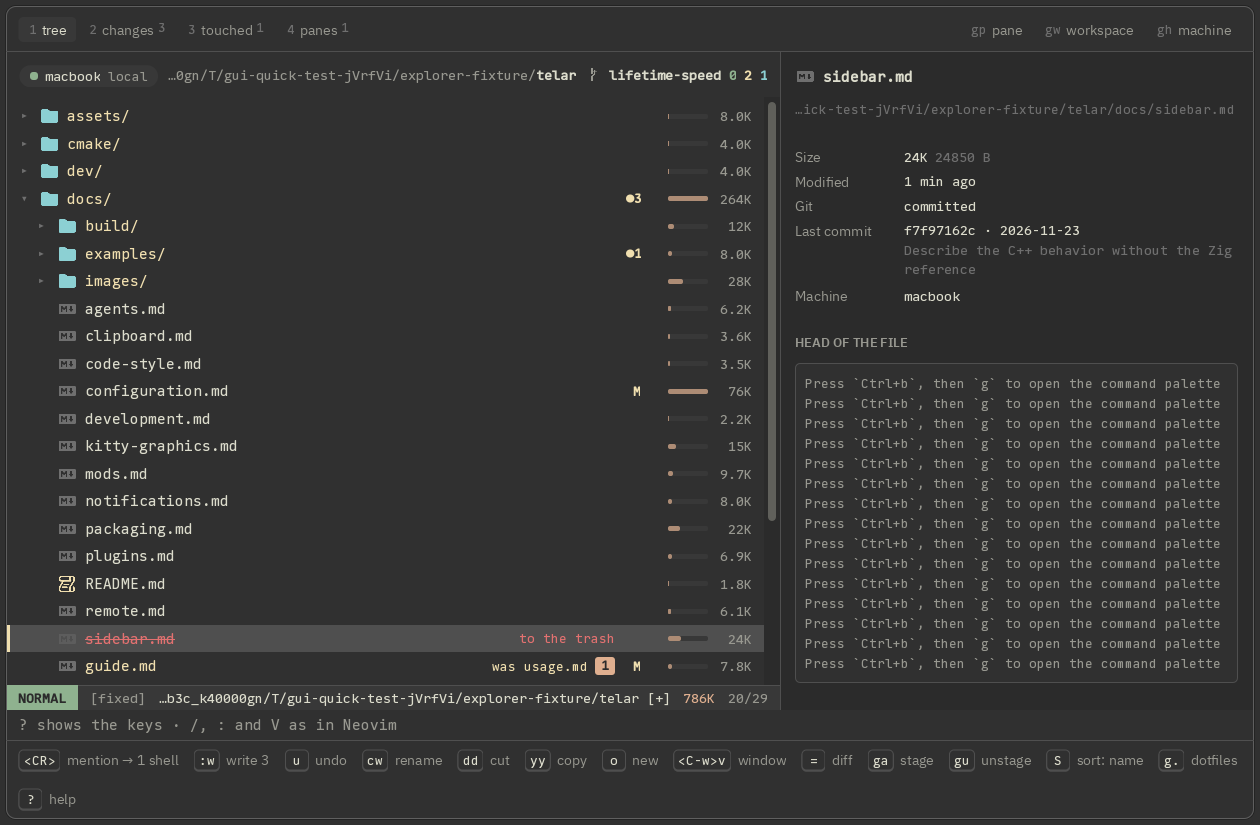
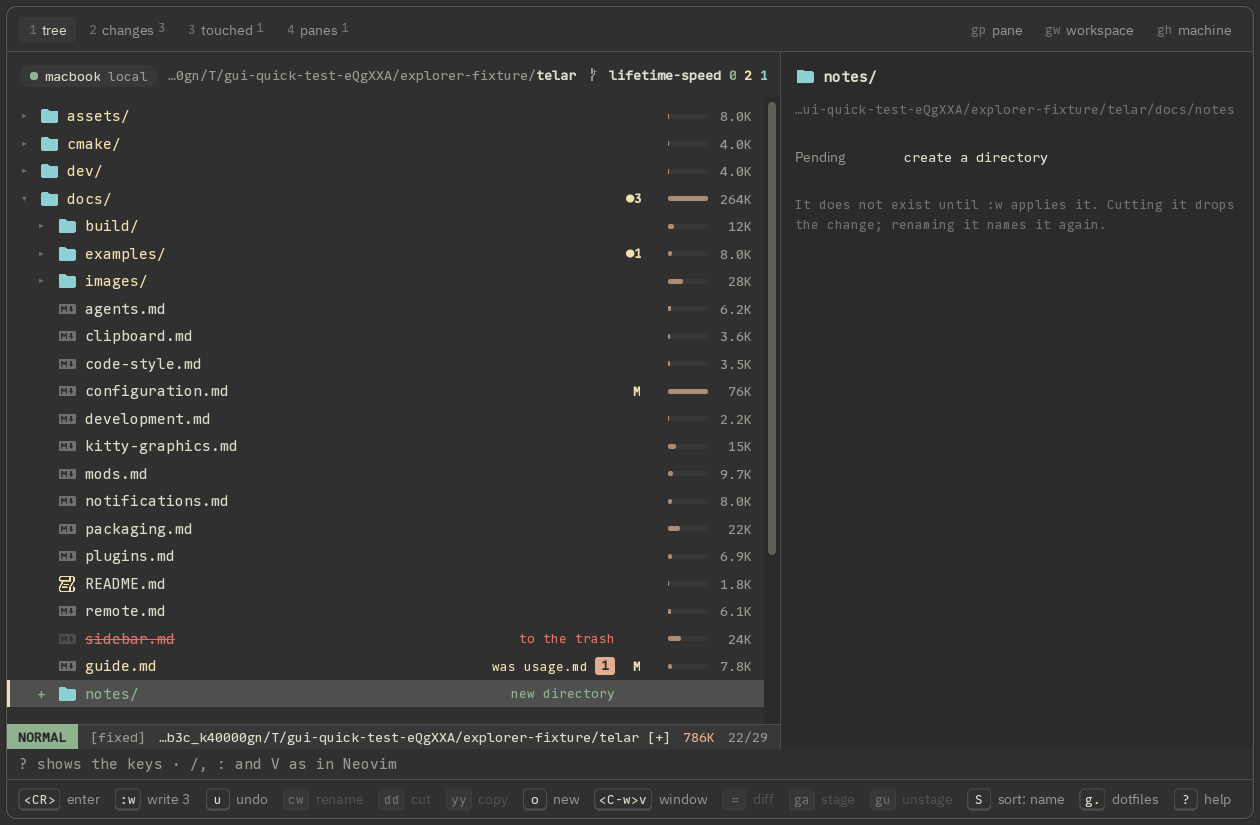
Describe the keys the explorer took from the design's prototype
The guide says what each does where it lists the keys of its kind, the
configuration's page names the commands a key can now be bound to, and the
pictures that changed are taken again: an entry not written yet keeps the
selection and has a preview, a directory lists seven of its heaviest and how
many of its entries show, and a file git does not track is marked `??`.

diff --git a/docs/explorer.md b/docs/explorer.md
@@ -19,21 +19,31 @@ until `:w` shows the plan and you accept it. `?` lists every key.
 
 | Keys | What they do |
 | --- | --- |
-| `j` `k`, `gg` `G`, `Ctrl+d` `Ctrl+u` | Move by a row, to the first or the last, by half a page. A count applies: `5j`, `12G`. |
+| `j` `k`, `gg` `G`, `Ctrl+d` `Ctrl+u` | Move by a row, to the first or the last, by half a page. A count applies: `5j`, `12G`. `Ctrl+n` and `Ctrl+p` move as `j` and `k`, and `:12` goes to a row as `12G`. |
 | `h` `l` | Fold and unfold a directory. `h` on a file goes to its directory; `l` on an unfolded directory moves into it. |
-| `za` `zM` `zR` | Toggle a fold, fold every directory, unfold the directories that show. |
+| `za` `zo` `zc` | Toggle a fold, unfold, fold. `zc` on what is in a directory folds that directory, and selects it. |
+| `zM` `zR` | Fold every directory; unfold every one, each as its listing arrives. `zR` stops when a window has 64 directories unfolded. |
 | `Enter` | On a directory, make it the root of the window. |
-| `-` `_` `~` | Go to the directory above, to the workspace's, to the home. |
+| `-` `_` `~` | Go to the directory above, to the workspace's, to the home. Backspace goes up as `-` does. |
 | `Ctrl+o` `Ctrl+i` | Go back and forward through the roots visited. |
-| `ma` `'a` | Set a mark on the selection, and return to it. `:marks` lists them. |
-| `/` | Filter as you type; Enter keeps the filter, Escape drops it. `n` and `N` go to the next and the previous match, around the ends. |
-| `]c` `[c` | Go to the next or the previous row git says changed. |
+| `ma` `'a` | Set a mark on the selected row, and go to it; `` `a `` goes there too. The mark of a directory makes it the root of the window; the mark of a file selects it where the window listed it. `:marks` lists them. |
+| `/` | Filter as you type; Enter keeps the filter, Escape drops it. While you type, the arrows and `Ctrl+n` `Ctrl+p` move among what it found. `n` and `N` go to the next and the previous match, around the ends. |
+| `]c` `[c` | Go to the next or the previous path git says changed below the root, in the tree, unfolding the directories that lead to it. Past the last one it starts again. |
 | `]a` `[a` | Go to the next or the previous file an agent touched, in the tree, unfolding the directories that lead to it. Past the last one it starts again. |
 | `S`, `g.`, `gi` | Sort by name, size or time; show dotfiles; show what git ignores. |
 | `R` | Read the directories again. |
 
-A click selects a row, a double click acts as Enter, and the wheel scrolls. Shift and a click
-selects up to that row, and Cmd or Ctrl and a click picks rows one by one.
+A click selects a row, a double click acts as Enter, and the wheel scrolls. A click on the row
+that is already selected folds or unfolds its directory, and on a file git says changed it
+shows or hides its diff below it. Shift and a click selects up to that row, Cmd or Ctrl and a
+click picks rows one by one, and Cmd or Ctrl with `a` picks every row. A click on a directory
+of the path the head of a window shows roots the window there.
+
+The tree ends with a row that says how many entries of its root the window does not list,
+dotfiles and what git ignores, with the keys that list them.
+
+`]c` and `[c` follow the tree's order by name, whatever the window is sorted by, and step over
+what a hidden directory holds until `g.` lists it.
 
 ## Filter every path below the root
 
@@ -57,8 +67,9 @@ the window already lists.
 
 Each row has the icon of its type, the same the editor's surfaces use. To its right:
 
-- the state git gives the file, `M` `A` `D` `R` `U` `C`, and for a directory how many paths
-  changed below it, as `●3`;
+- the state git gives the file, in the two columns of `git status -s`: what the index holds,
+  then what the working tree does, `M` `A` `D` `R`, and `??` for a file git does not track; for
+  a directory, how many paths changed below it, as `●3`;
 - the panes whose shell is in that directory, by their number in the tab;
 - the marks set on it;
 - a ring, `○`, when an [editor pane](#with-the-editor) of its machine has the file in a
@@ -68,13 +79,16 @@ Each row has the icon of its type, the same the editor's surfaces use. To its ri
   as `…`, and one it did not finish ends in `+`.
 
 The preview beside the listing says the size, the time of the last change, what git says and
-the last commit of the selection, which editor pane holds it, and shows its diff when it has
-changes not committed, or the head of its text.
+the last commit of the selection, which editor pane holds it and the marks set on it, and shows
+its diff when it has changes not committed, or the head of its text. A row that is no file has
+a preview of its own: a pane says what it is and where, and an entry a change adds, or a file
+on its way from another machine, says what waits to be done.
 
-Of a directory it lists the five entries that weigh the most under **Heaviest**, each with its
-size and its part of all the directory holds. It does so from what the window already holds: a
-directory it lists whole, as an unfolded one, with every directory in it measured. Until then
-it lists none, since the heaviest of a part is not the heaviest.
+Of a directory it says how many of its entries the window lists, as `17 of 19 visible`, and
+lists the seven that weigh the most under **Heaviest**, each with its size and its part of all
+the directory holds. It does so from what the window already holds: a directory it lists whole,
+as an unfolded one, and for the heaviest with every directory in it measured. Until then it
+says neither, since the heaviest of a part is not the heaviest.
 
 ![The preview of a directory, with its heaviest entries](images/telar-explorer-heaviest.png)
 
@@ -84,7 +98,8 @@ it lists none, since the heaviest of a part is not the heaviest.
 `:touched` and `:panes` do.
 
 - **tree**: the directories, unfolded as you ask.
-- **changes**: what git says changed, in three groups: staged, unstaged and untracked.
+- **changes**: what git says changed, in three groups: staged, unstaged and untracked. `=`
+  unfolds the diff of a file below its row here too, and in the lens of what was touched.
 
   ![The lens of changes](images/telar-explorer-changes.png)
 
@@ -126,7 +141,8 @@ that machine starts or ends a program or its agent reports. A machine with no wi
 
 A window follows the focused pane until you send it somewhere else: its root is the pane's
 workspace, and the selection is the pane's directory. `gp` roots it at the pane's directory
-instead, `gw` at the workspace's and `gh` at the home of the machine. Enter on a directory,
+instead, `gw` at the workspace's and `gh` at the home of the machine, as `:scope pane`,
+`:scope workspace` and `:scope machine` do. Enter on a directory,
 `-` or `:e` take the window where you say, and the status line says `[fixed]`; `F` follows the
 pane again.
 
@@ -138,9 +154,10 @@ pane again.
 | `V`, then `Enter` | The same with every row selected. |
 | `@` | Mentions the file to the agent of the tab. |
 | `gf` | Opens it in the tab's [editor pane](editor.md). |
-| `cd` | Changes the directory of the focused shell to the row's. |
+| `cd` | Changes the directory of the focused shell to the row's. `:cd PATH` does it with a path, as the window reads one, and `:cd` alone with the window's root. |
 | `s` | Opens a new shell in the row's directory, in a split. |
 | `yy` `yr` `yn` | Copy the path, the path from the root, or the name to the clipboard. |
+| `.` | Repeats the last of these, and of the ones that change files or git's index, on the row selected now. |
 
 The explorer closes when a file goes to a pane, so what the pane did with it shows. [Beside
 the panes](#beside-the-panes) it stays.
@@ -149,17 +166,22 @@ the panes](#beside-the-panes) it stays.
 
 | Keys | What they do |
 | --- | --- |
-| `cw` `i` `a` | Rename on the row. |
+| `cw` `cc` `i` `a` | Rename on the row: with the name selected up to its extension, with all of it selected, with the caret before it, or after it. `I` and `A` are `i` and `a`. |
 | `o` | Add an entry in the row's directory. A name that ends in `/` is a directory. |
 | `dd` | Cut: the row goes to the trash, or moves where `p` pastes it. |
 | `yy`, then `p` | Copy into the directory of the selection, in this window or in another. |
 | `u` | Take the last change typed back. |
-| `:w` | Show the plan. `:w!` lets a move or a copy replace what exists. |
+| `:w` | Show the plan. `:w!` lets a move or a copy replace what exists. `:wq` is `:w`, and `:wa!` is `:w!`. |
+
+Enter and Escape both end a name: what was typed is the change, and so does a click on
+another row. An empty name leaves a rename undone and adds no entry. A new entry keeps the
+selection once it has its name.
 
 A count takes that many rows: `3dd`. `V` selects rows for `d`, `y`, `ga` and `gu`.
 
-The shortcuts of a file manager name the same commands: Cmd or Ctrl with `c`, `x`, `v`, `z` and
-`s` are `yy`, `dd`, `p`, `u` and `:w`, and F2 renames.
+The shortcuts of a file manager name the same commands: Cmd or Ctrl with `c`, `x`, `v`, `z`,
+`s` and `a` are `yy`, `dd`, `p`, `u`, `:w` and every row picked; F2 renames, and Delete, or Cmd
+with Backspace, cuts.
 
 ![Changes typed on the listing, not yet written](images/telar-explorer-pending.png)
 
@@ -181,7 +203,8 @@ The shortcuts of a file manager name the same commands: Cmd or Ctrl with `c`, `x
   directory goes to the trash with all it holds. A name is known as taken from the listings
   the window holds: one in a directory it never listed is found by the runtime, which gives
   the file another.
-- `u` with nothing typed takes the last plan back.
+- `u` with nothing typed asks whether to take the last plan back, and `y` does: what it
+  deleted returns from the trash.
 - A plan holds 64 operations at most.
 
 `q` and `:q` do not close the last window while changes wait; `:q!` and `:e!` discard them.
@@ -242,7 +265,7 @@ on its own leaves as its text alone, and so does a directory on Linux.
 | --- | --- |
 | `=` | Unfold the diff of the file below its row. |
 | `ga` `gu` | Stage and unstage, at once. |
-| `gX` | Discard the changes of a file. It is a change typed, written by `:w`, as it loses work. |
+| `gX` | Discard the changes the working tree holds of a file, or of every file below a directory; what the index holds stays. It is a change typed, written by `:w`, as it loses work. |
 | `gc` | Commit what is staged: it opens `:commit` for the message. |
 
 The head of a window says the branch, how far it is from its upstream, and how many paths are
@@ -255,10 +278,13 @@ The explorer splits into three windows at most, each on its own directory.
 | Keys | What they do |
 | --- | --- |
 | `Ctrl+w` `v`, `Ctrl+w` `s` | Another window, beside or below. |
-| `Ctrl+w` `w`, `Ctrl+w` `h` `j` `k` `l` | Go to the next window, or to the one that way. |
+| `Ctrl+w` `w`, `Ctrl+w` `h` `j` `k` `l` | Go to the next window, around the last; or to the one on that side, where there is one: `h` and `l` between windows side by side, `k` and `j` between one below the other. |
 | `Ctrl+w` `q`, `Ctrl+w` `o` | Close this window, or every other one. |
 | `:e PATH`, `:vs PATH`, `:sp PATH` | Take this window, or a new one, to a path. `~` is the home, and a relative path starts at the window's root. A path of [another machine](#machines) starts with its label and a colon. |
-| `Tab` | On one of those lines and on `:cd`, complete the directory being typed: the one that matches, or the start that several share, which it lists beside the line. |
+| `Tab` | On the command line, complete the name of a command; and on one of those lines and on `:cd`, the directory being typed: the one that matches, or the start that several share, which it lists beside the line. |
+
+Alt with `w` starts the same sequences as `Ctrl+w`, for a system that keeps that key for
+itself, unless a configuration binds it.
 
 `yy` in one window and `p` in another copies between two directories; `dd` and `p` moves.
 

diff --git a/docs/configuration.md b/docs/configuration.md
@@ -1359,22 +1359,26 @@ The commands, by what they do:
 | Commands | |
 | --- | --- |
 | `down` `up` `top` `bottom` `half_page_down` `half_page_up` | Move the selection. |
-| `collapse` `expand` `toggle_fold` `fold_all` `unfold_all` | Fold and unfold directories. |
+| `collapse` `expand` `toggle_fold` `unfold` `fold` `fold_all` `unfold_all` | Fold and unfold directories. |
 | `next_change` `previous_change` `next_touch` `previous_touch` | Go to the next file git or an agent changed. |
 | `enter` `parent` `workspace_root` `home` | Root the window somewhere else. |
 | `scope_pane` `scope_workspace` `scope_machine` `next_machine` `toggle_follow` | What the window follows, and its machine. |
 | `mark` `jump_to_mark` `jump_back` `jump_forward` | Marks and the jump list. `mark` and `jump_to_mark` take the letter typed after their keys. |
 | `next_lens` `previous_lens` | The lens. |
-| `rename` `rename_whole` `create` `create_directory` `cut` `yank` `yank_relative` `yank_name` `paste` `undo` `write` | Change files as text. |
+| `rename` `rename_whole` `rename_start` `rename_end` `create` `create_directory` `cut` `yank` `yank_relative` `yank_name` `paste` `undo` `write` | Change files as text. The four that rename differ in where the caret starts: on the name up to its extension, on all of it, before it, after it. |
 | `split_vertical` `split_horizontal` `split_here` `next_window` `previous_window` `window_left` `window_right` `window_up` `window_down` `close_window` `only_window` `pin` | Windows. |
 | `open` `change_directory` `split_shell` `mention` `repeat` | Hand a file to a pane. |
 | `toggle_diff` `stage` `unstage` `discard` `commit` | Git. |
 | `cycle_sort` `toggle_hidden` `toggle_ignored` `refresh` | What is listed. |
-| `visual` `search` `next_match` `previous_match` `command_line` `help` `quit` `escape` | Modes. |
+| `visual` `select_all` `search` `next_match` `previous_match` `command_line` `help` `quit` `escape` | Modes, and every row picked at once. |
 
 `telar config check` refuses a name that is no command and a sequence that
 cannot be typed, and says which. The keys of the other modes, as `y` and `n`
 on a plan, the keys of `:` and the ones of a menu, are not changed here.
+
+Two keys are read before the map. Command with Backspace is `<Del>`, the Delete
+of a keyboard that has none. And `<M-w>`, Alt with `w`, starts the sequences
+of `<C-w>` while no sequence you bound starts with it.
 
 `telar.action.monitor()` opens the monitor over the window: the processors,
 memory, disks and network of the window's machine, and every process it runs.
